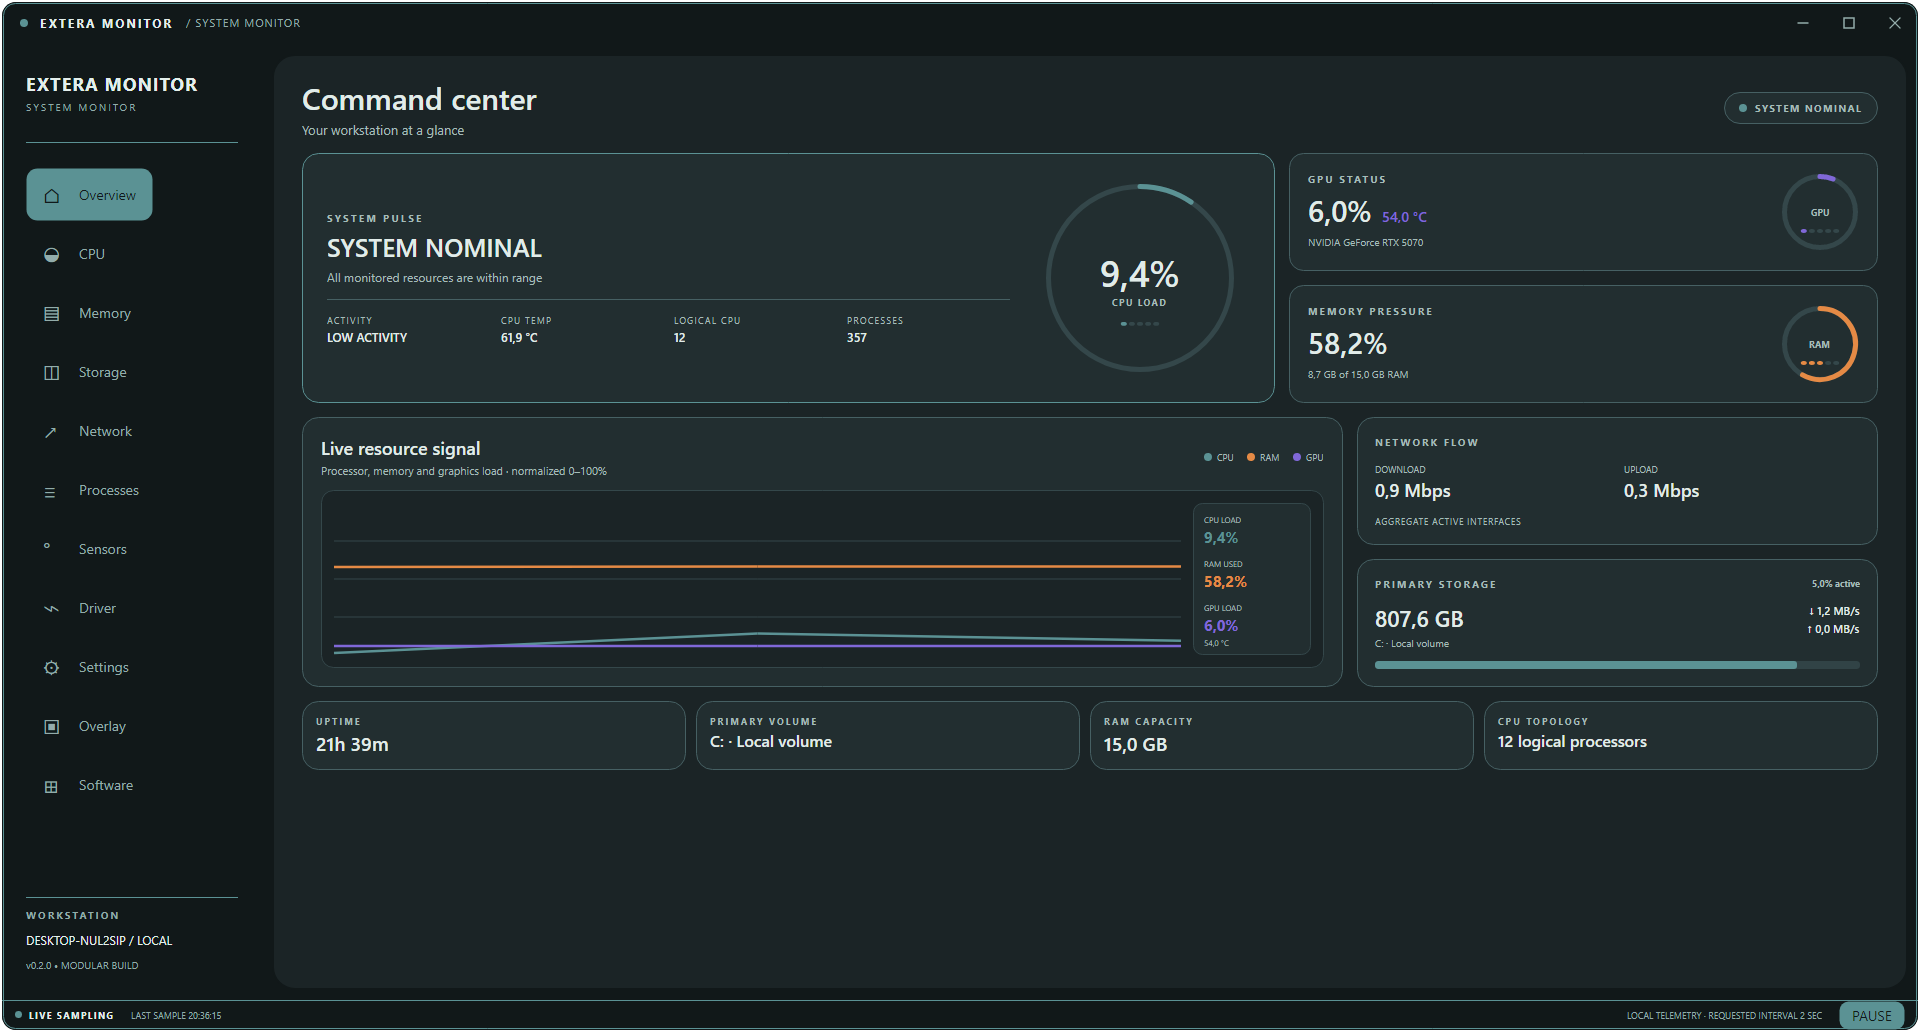
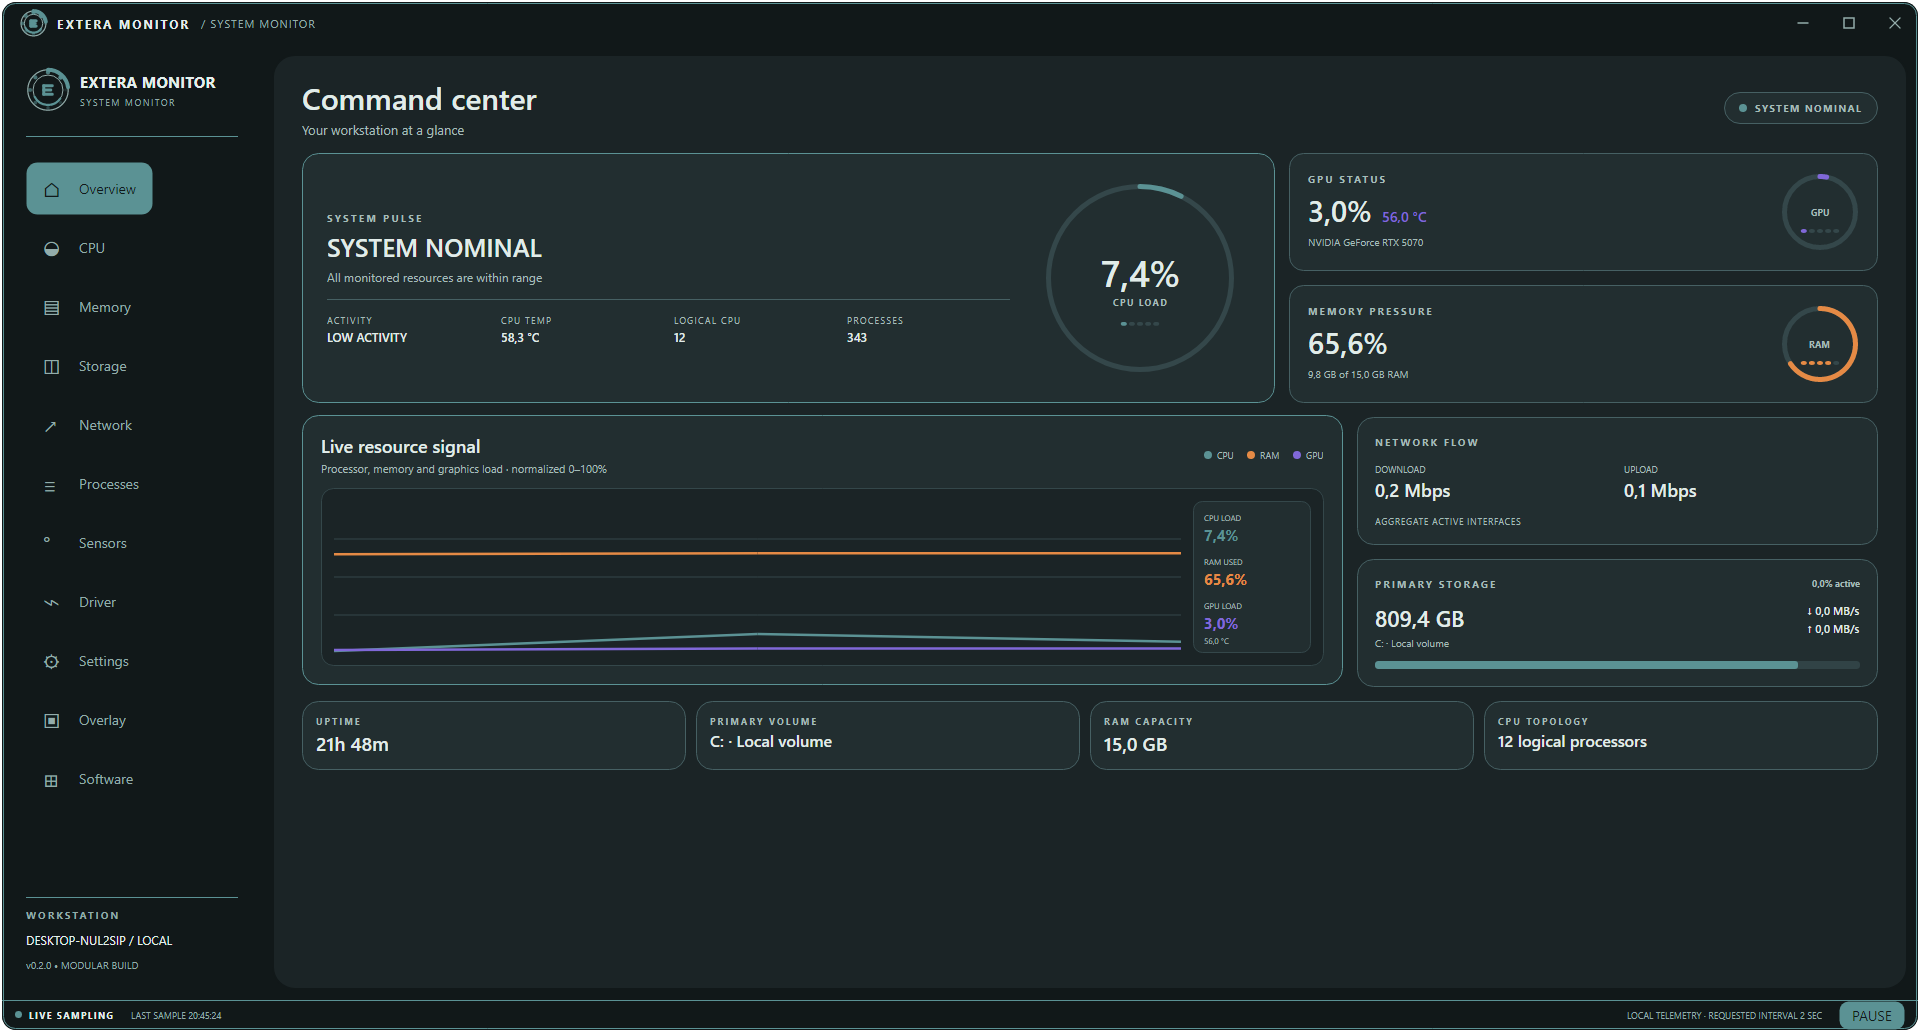
Apply Extera branding across the desktop app

diff --git a/Views/Controls/ExteraLoadingLogo.cs b/Views/Controls/ExteraLoadingLogo.cs
@@ -13,12 +13,15 @@ public sealed class ExteraLoadingLogo : Control
         AvaloniaProperty.Register<ExteraLoadingLogo, IBrush?>(nameof(Accent));
     public static readonly StyledProperty<IBrush?> TrackProperty =
         AvaloniaProperty.Register<ExteraLoadingLogo, IBrush?>(nameof(Track));
+    public static readonly StyledProperty<bool> IsAnimatedProperty =
+        AvaloniaProperty.Register<ExteraLoadingLogo, bool>(nameof(IsAnimated), true);
 
     private readonly DispatcherTimer _timer;
     private double _phase;
 
     public IBrush? Accent { get => GetValue(AccentProperty); set => SetValue(AccentProperty, value); }
     public IBrush? Track { get => GetValue(TrackProperty); set => SetValue(TrackProperty, value); }
+    public bool IsAnimated { get => GetValue(IsAnimatedProperty); set => SetValue(IsAnimatedProperty, value); }
 
     public ExteraLoadingLogo()
     {
@@ -32,7 +35,7 @@ public sealed class ExteraLoadingLogo : Control
     protected override void OnAttachedToVisualTree(VisualTreeAttachmentEventArgs e)
     {
         base.OnAttachedToVisualTree(e);
-        if (IsVisible) _timer.Start();
+        if (IsVisible && IsAnimated) _timer.Start();
     }
 
     protected override void OnDetachedFromVisualTree(VisualTreeAttachmentEventArgs e)
@@ -44,10 +47,10 @@ public sealed class ExteraLoadingLogo : Control
     protected override void OnPropertyChanged(AvaloniaPropertyChangedEventArgs change)
     {
         base.OnPropertyChanged(change);
-        if (change.Property == AccentProperty || change.Property == TrackProperty) InvalidateVisual();
-        if (change.Property == IsVisibleProperty)
+        if (change.Property == AccentProperty || change.Property == TrackProperty || change.Property == IsAnimatedProperty) InvalidateVisual();
+        if (change.Property == IsVisibleProperty || change.Property == IsAnimatedProperty)
         {
-            if (IsVisible) _timer.Start();
+            if (IsVisible && IsAnimated) _timer.Start();
             else _timer.Stop();
         }
     }
